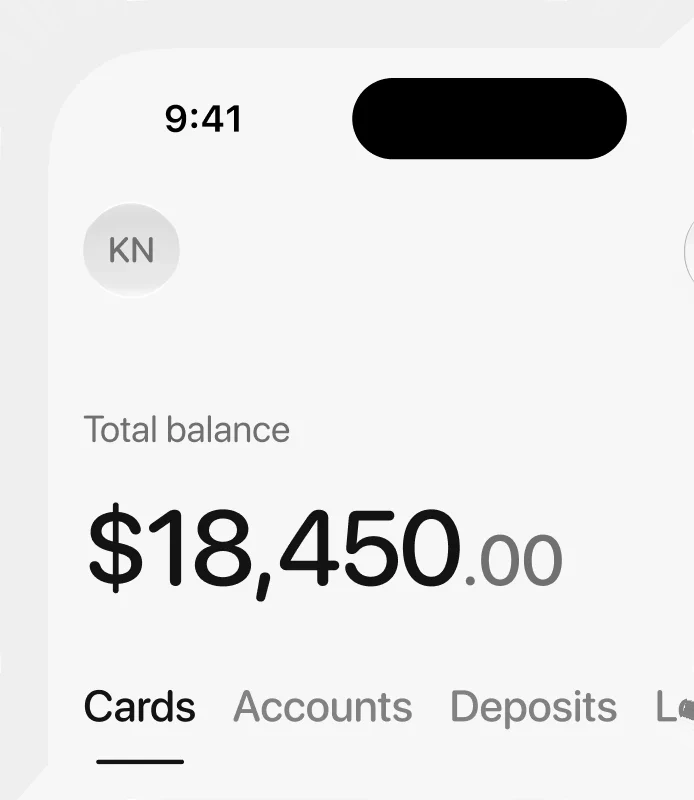
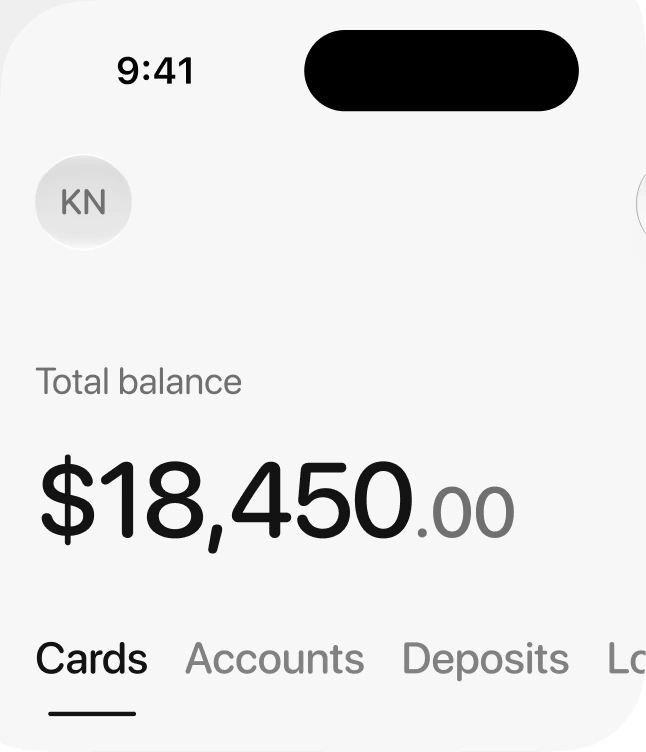
Static case previews as Figma artboards: screen frame at its Figma position and size, clipped by the card; whole artboard scales as one
Re-exported the home, ATMs and card-management screens from Figma and removed the corner-filling script that smeared their edges.

Claude-Session: https://claude.ai/code/session_01KBgqb4S19UVaTZyiqdMT4N

diff --git a/lib/content.ts b/lib/content.ts
@@ -3,6 +3,9 @@ export type Lang = "ru" | "en";
 /** lead: the word kept on one line with the logo (Figma "Project Category"). */
 type ProjectPart = string | { logo: string; label?: string; chip?: boolean; lead?: string };
 
+/** Screen frame of a static preview, in Figma px relative to the card: position, size, radius, fill. */
+export type CaseScreen = { x: number; y: number; w: number; h: number; r: number; fill: string };
+
 export type CaseCard = {
   /**
    * Static screenshot, or a live preview built in code: "card" the flipping debit card,
@@ -10,6 +13,8 @@ export type CaseCard = {
    */
   kind?: "image" | "card" | "auth" | "spending";
   image: string;
+  /** Screen frame inside the Figma preview (image cards): the card clips it like Figma does. */
+  screen?: CaseScreen;
   caption: string;
   /** Preview size in the Figma strip, px (desktop). */
   w: number;
@@ -56,9 +61,24 @@ export type Content = {
 const cards = (captions: string[]): CaseCard[] => [
   { kind: "auth", image: "", caption: captions[0], w: 424, h: 500, fill: "subtle", captionTone: "muted" },
   { kind: "card", image: "", caption: captions[1], w: 432, h: 300, fill: "page", captionTone: "muted" },
-  { image: "cases/home.webp", caption: captions[2], w: 347, h: 400, fill: "subtle", captionTone: "muted" },
-  { image: "cases/atms.webp", caption: captions[3], w: 200, h: 200, fill: "subtle", captionTone: "muted" },
-  { image: "cases/card-management.webp", caption: captions[4], w: 400, h: 500, fill: "section", captionTone: "muted" },
+  // Figma 1366:57582 / 57583: 441.56 × 960 screen at (24, 24), larger than the card and clipped by it.
+  {
+    image: "cases/home.webp",
+    screen: { x: 24, y: 24, w: 441.556, h: 960, r: 44, fill: "var(--portfolio-bg-section)" },
+    caption: captions[2], w: 347, h: 400, fill: "subtle", captionTone: "muted",
+  },
+  // Figma 1366:57697 / 57698: 200 × 200 map content, radius 34.29.
+  {
+    image: "cases/atms.webp",
+    screen: { x: 0, y: 0, w: 200, h: 200, r: 34.286, fill: "var(--portfolio-bg-section)" },
+    caption: captions[3], w: 200, h: 200, fill: "subtle", captionTone: "muted",
+  },
+  // Figma 1366:57707 / 57708: 300 × 652.24 screen at (50, 50), runs past the bottom edge.
+  {
+    image: "cases/card-management.webp",
+    screen: { x: 50, y: 50, w: 300, h: 652.24, r: 46.269, fill: "var(--portfolio-bg-section)" },
+    caption: captions[4], w: 400, h: 500, fill: "section", captionTone: "muted",
+  },
   { kind: "spending", image: "", caption: captions[5], w: 404, h: 404, fill: "none", captionTone: "muted" },
 ];
 

diff --git a/components/sections/Cases.tsx b/components/sections/Cases.tsx
@@ -4,6 +4,7 @@ import { links } from "@/lib/site";
 import type { CaseCard, Content } from "@/lib/content";
 import { FlipCard } from "@/components/sections/cases/FlipCard";
 import { MotionPreview } from "@/components/sections/cases/MotionPreview";
+import { ArtboardPreview } from "@/components/sections/cases/ArtboardPreview";
 import { CaseStrip } from "@/components/sections/cases/CaseStrip";
 
 const FILL: Record<CaseCard["fill"], string> = {
@@ -38,11 +39,20 @@ function Card({ card, flipLabel }: { card: CaseCard; flipLabel: string }) {
   return (
     <figure role="listitem" className="flex shrink-0 snap-start flex-col gap-[calc(var(--space-16)*var(--case-scale))]">
       <div
-        // Motion previews draw (and clip) their own card; the rest are clipped here.
-        className={kind === "auth" || kind === "spending" ? "relative" : `relative overflow-hidden rounded-visual ${FILL[card.fill]}`}
-        style={{ width: `calc(${card.w}px * var(--case-scale))`, height: `calc(${card.h}px * var(--case-scale))` }}
+        // Motion previews draw (and clip) their own card; the rest are clipped here. clip-path + isolate
+        // make Safari clip the scaled artboard too, and the card fill sits on this same element, so
+        // the anti-aliased rounded edge never shows a light rim.
+        className={kind === "auth" || kind === "spending" ? "relative" : `relative isolate overflow-hidden rounded-visual ${FILL[card.fill]}`}
+        style={{
+          width: `calc(${card.w}px * var(--case-scale))`,
+          height: `calc(${card.h}px * var(--case-scale))`,
+          ...(kind === "auth" || kind === "spending" ? {} : { clipPath: "inset(0 round var(--radius-visual))" }),
+        }}
       >
-        {kind === "image" && (
+        {kind === "image" && card.screen && (
+          <ArtboardPreview w={card.w} h={card.h} image={card.image} alt={card.caption} screen={card.screen} />
+        )}
+        {kind === "image" && !card.screen && (
           // eslint-disable-next-line @next/next/no-img-element
           <img src={asset(card.image)} alt={card.caption} loading="lazy" draggable={false} className="block size-full object-cover" />
         )}

diff --git a/components/sections/cases/ArtboardPreview.tsx b/components/sections/cases/ArtboardPreview.tsx
@@ -1,0 +1,36 @@
+import { asset } from "@/lib/asset";
+import type { CaseScreen } from "@/lib/content";
+
+/**
+ * A static case preview laid out exactly as its Figma "Preview" frame: a fixed artboard (card size)
+ * with the screen frame absolutely positioned at its Figma x/y/size/radius. The screen may be larger
+ * than the card and run past its right/bottom edges; the card wrapper (Cases.tsx) clips it.
+ * The whole artboard is scaled as one piece with the strip (--case-scale), so proportions never change.
+ *
+ * `image` is the Figma export of the screen frame cropped to the part the card shows
+ * (min(w, cardW − x) × min(h, cardH − y)), so it sits at the screen's top-left corner.
+ */
+export function ArtboardPreview({ w, h, image, alt, screen }: { w: number; h: number; image: string; alt: string; screen: CaseScreen }) {
+  const shownW = Math.min(screen.w, w - screen.x);
+  const shownH = Math.min(screen.h, h - screen.y);
+  return (
+    <div className="absolute top-0 left-0 origin-top-left" style={{ width: w, height: h, scale: "var(--case-scale)" }}>
+      <div
+        className="absolute overflow-hidden"
+        style={{ left: screen.x, top: screen.y, width: screen.w, height: screen.h, borderRadius: screen.r, background: screen.fill }}
+      >
+        {/* eslint-disable-next-line @next/next/no-img-element */}
+        <img
+          src={asset(image)}
+          alt={alt}
+          width={shownW}
+          height={shownH}
+          loading="lazy"
+          draggable={false}
+          className="absolute top-0 left-0 block max-w-none"
+          style={{ width: shownW, height: shownH }}
+        />
+      </div>
+    </div>
+  );
+}
